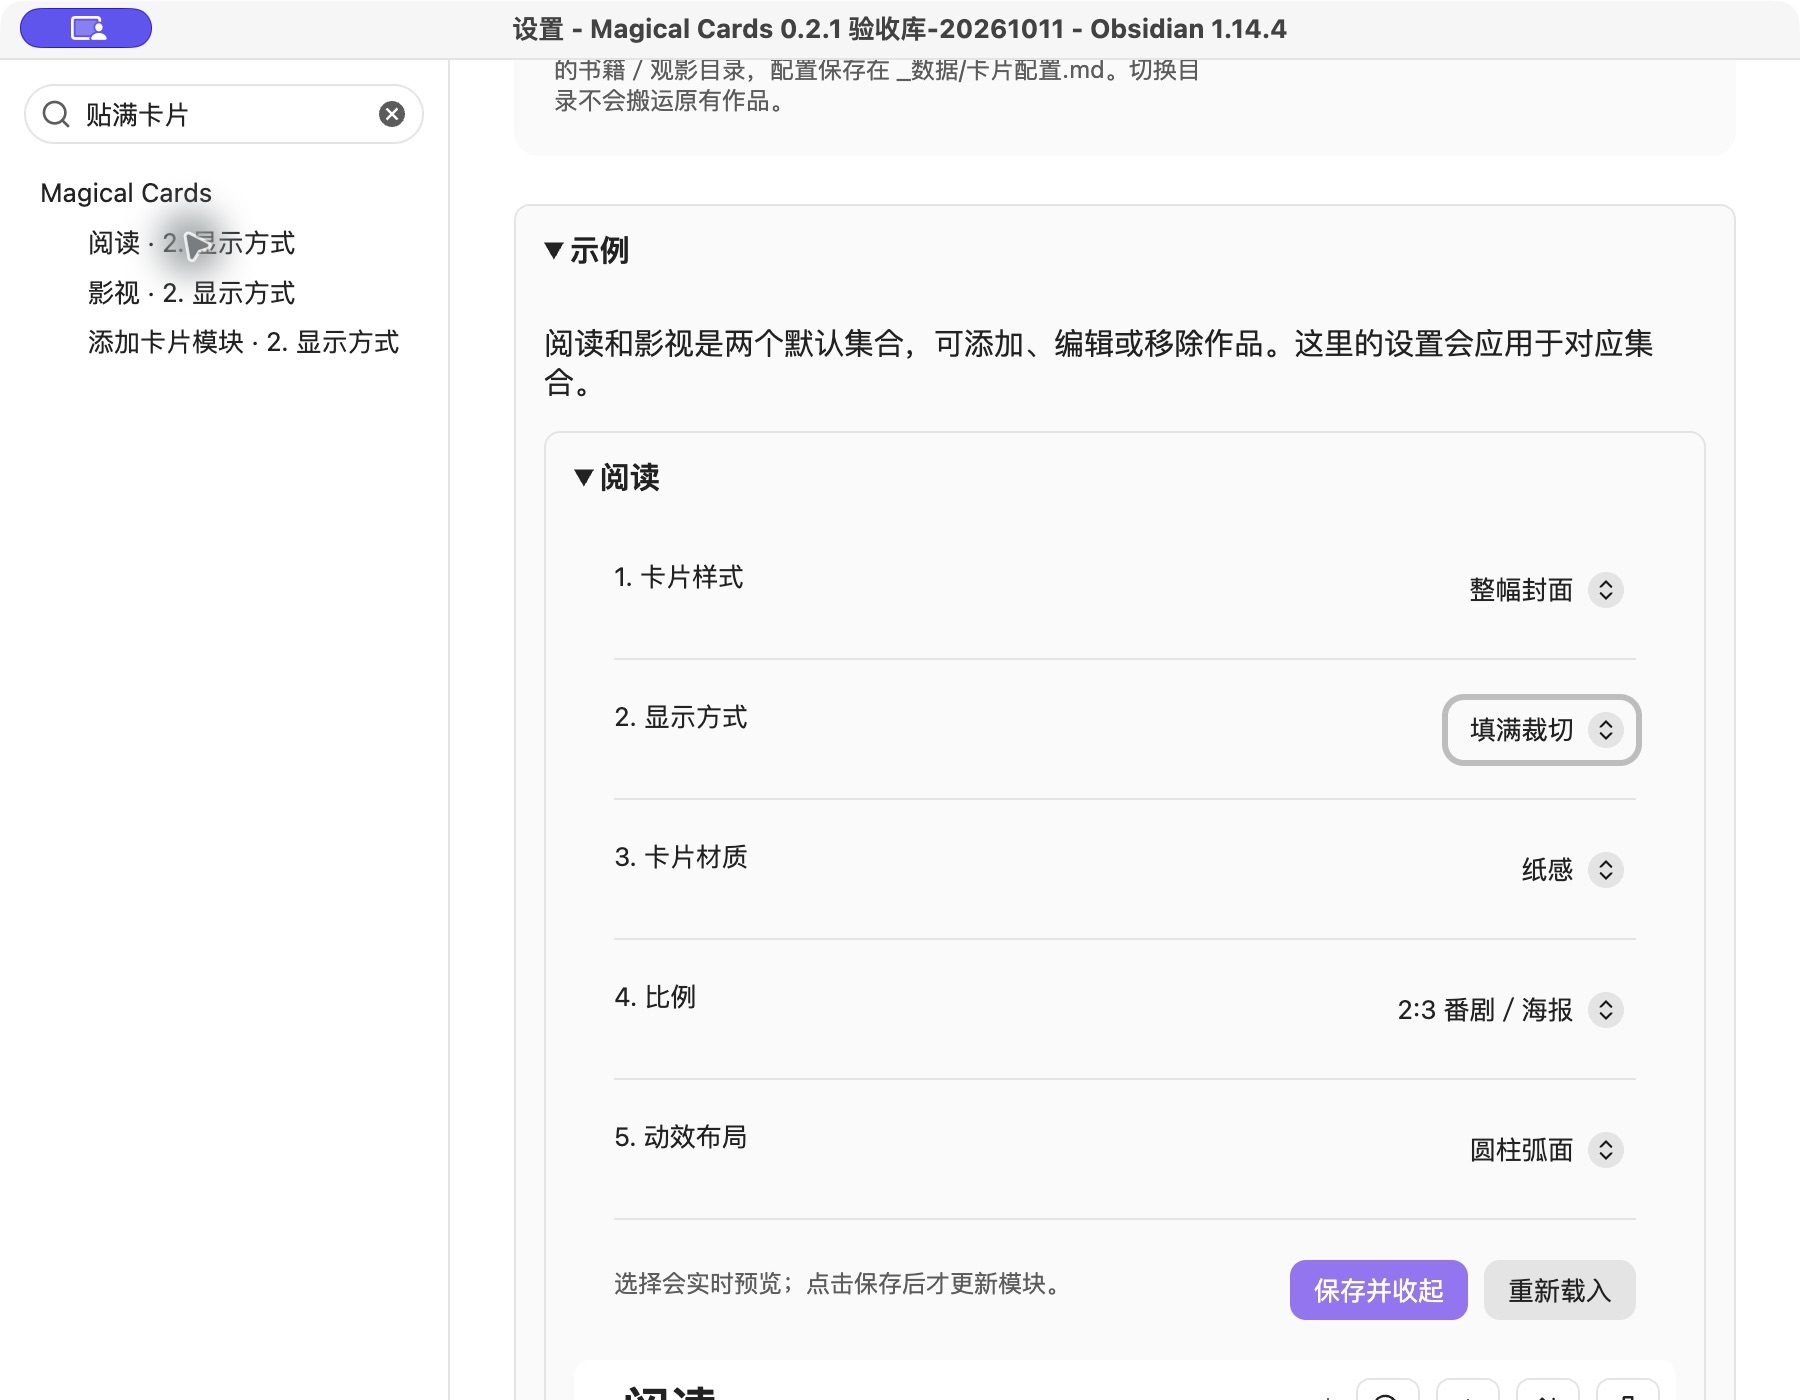
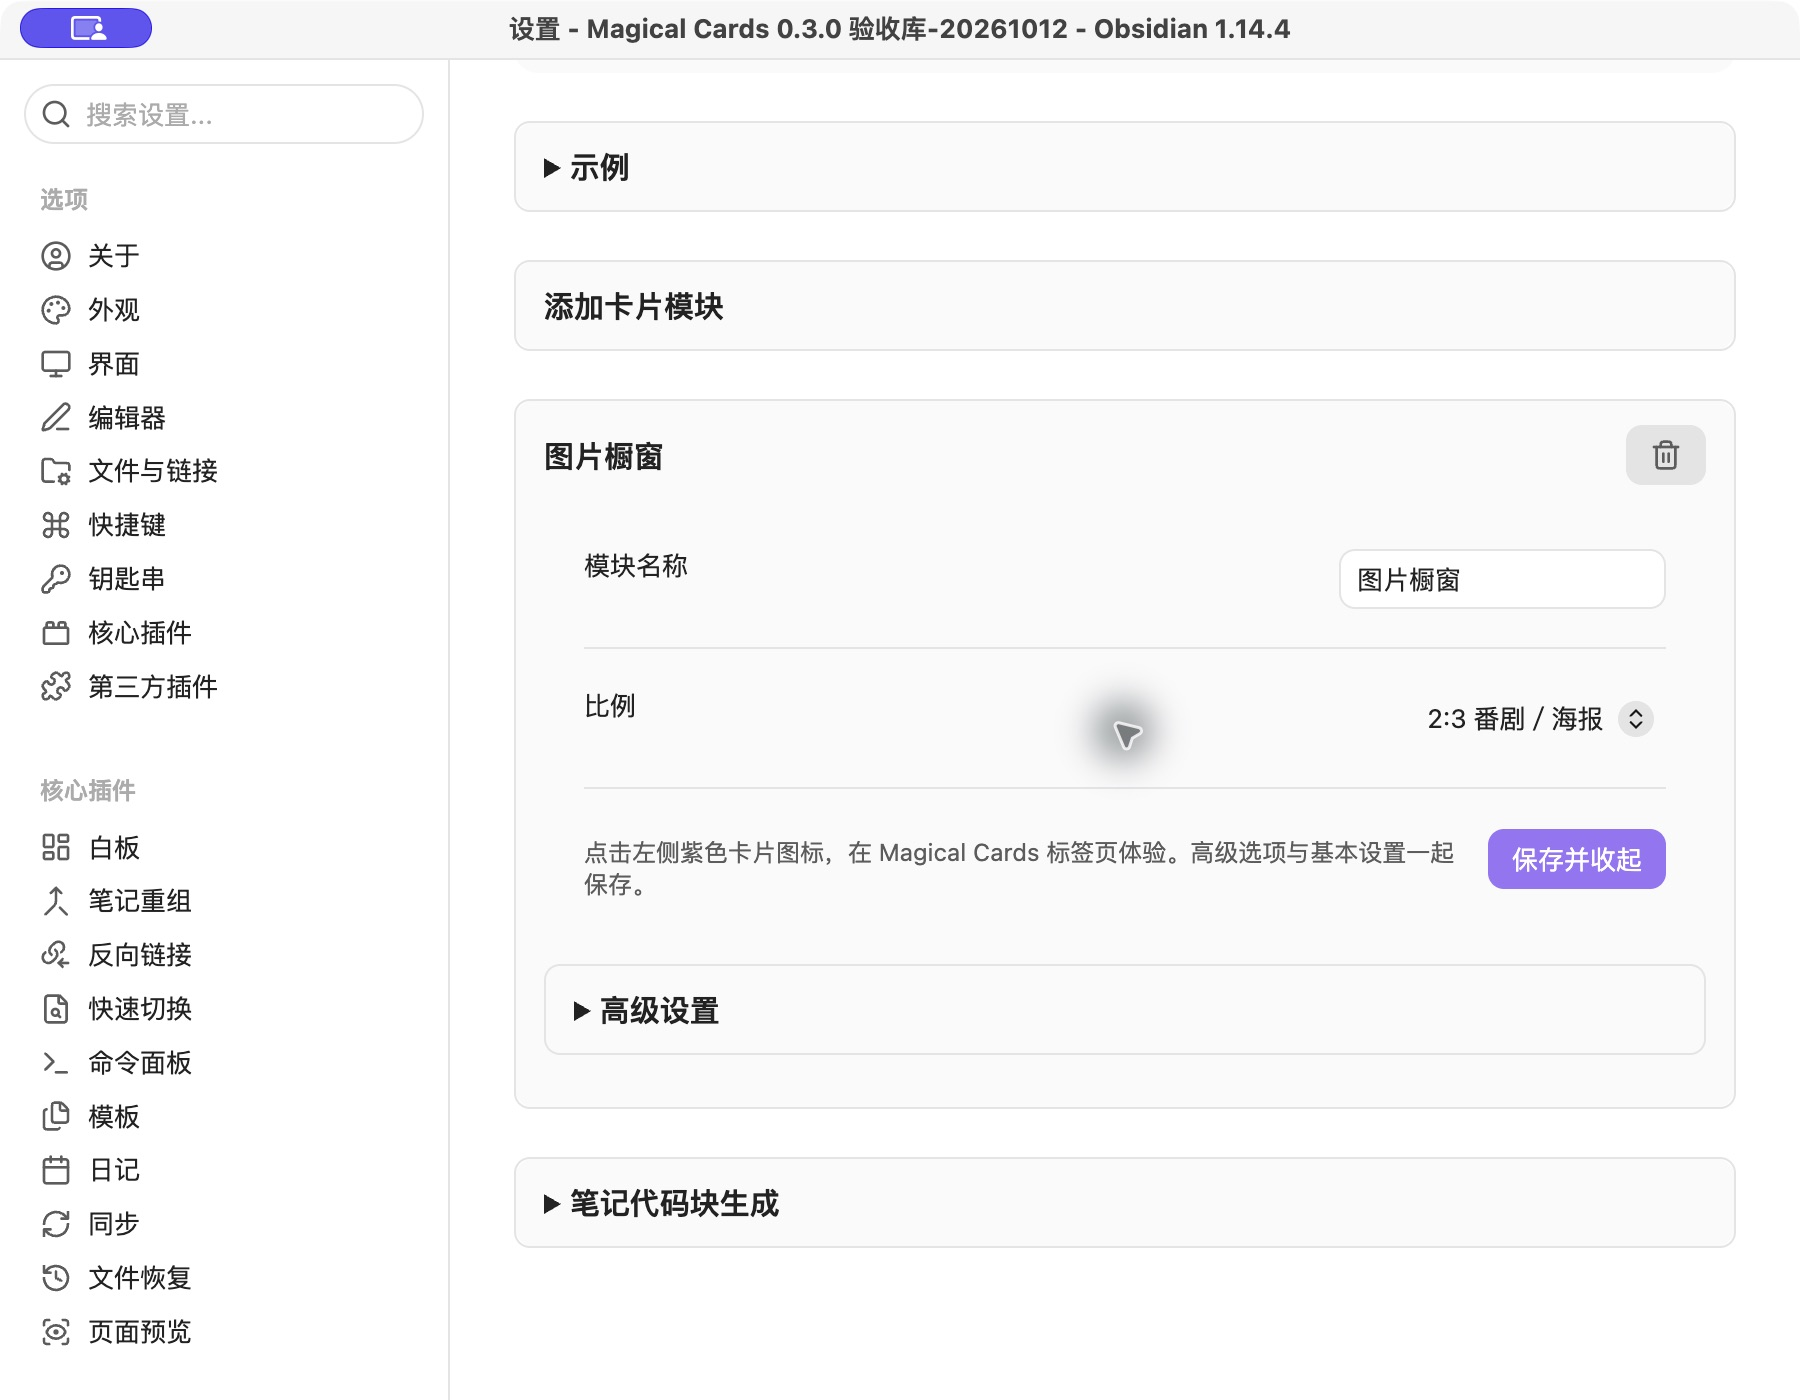
Document native showcase acceptance and settings previews

diff --git a/VERIFICATION.md b/VERIFICATION.md
@@ -1,6 +1,6 @@
 # Magical Cards 0.3.0 candidate verification
 
-Checked on 2026-10-12. This records a release candidate; 0.3.0 has not yet been published. Native acceptance, updated screenshots, deployment and the new community automatic scan are pending because the Mac is locked.
+Checked on 2026-10-12. This records a release candidate; 0.3.0 has not yet been published. Native acceptance and updated settings screenshots are complete. Deployment and the new community automatic scan remain pending.
 
 | Check | Result |
 | --- | --- |
@@ -13,9 +13,15 @@ Checked on 2026-10-12. This records a release candidate; 0.3.0 has not yet been 
 | Script-resource policy | All three renderer script entry points reject execution; version/source mismatch aborts building |
 | Reproducible build | Independent build processes produce identical installation bytes |
 | Clean Git clones | Standalone `1d547cd` on Node 24.19.0 and 26.8.1: all checks and 133 tests pass; host `f49675d` on Node 24.19.0: full workspace CI path and 251 tests pass; all three installation files match the candidates |
-| Native Obsidian acceptance and community scan | Pending; no new scan or native pass is claimed |
+| Native Obsidian acceptance and actual process restart | Pass; 22 / 22 on macOS with Obsidian 1.14.4, Magical Cards 0.3.0 and compatible host 0.1.33 |
+| Actual settings search | Manually confirmed; “翻面” finds “图片橱窗 · 允许翻面” |
+| Deployment and new community scan | Pending; no 0.3.0 release or new scan is claimed |
 
 Clean clone evidence: [verification/clean-0.3.0.json](verification/clean-0.3.0.json). Candidate file hashes: [verification/candidate-0.3.0.json](verification/candidate-0.3.0.json).
+
+Native acceptance covers the five layouts, image import retries, shared Markdown rendering, retained fields and surrounding text, settings save-failure drafts, IME save guards, name and flip controls, module restoration, both plugin loading orders, reading/Live Preview for both block languages, popout cleanup and open-view restoration. An actual application quit and new process launch preceded the final cold check at 2026-10-12T06:06:35.083Z; module settings, note bytes and image hashes remained unchanged. Sanitized results and the six bundled-cover hashes are recorded in [verification/native-0.3.0.json](verification/native-0.3.0.json).
+
+The native WebGL loss/restoration case dispatches synthetic context events. It verifies the handlers and fallback lifecycle, without establishing a physical GPU failure. Bundled local covers are verified without remote image dependencies; system-level disconnected-network testing is not claimed. The native helper and acceptance-vault records are excluded from the public plugin.
 
 New regression coverage includes native-readable showcase notes, image import identity and partial retries, safe SVGs, target-field merging, literal description newlines and repeated saves, damaged and duplicate markers, native unsaved-editor protection, retained names/descriptions and interrupted IME input, shared import/sort retries across view remounts, per-module appearance and three-card limits, read-only settings previews, hidden-module restoration, and real 0.2.1 final-release closures preserving showcase recovery drafts.
 

diff --git a/README_en.md b/README_en.md
@@ -81,7 +81,11 @@ Settings are ordered as **Card directory → Examples → Add cards module → E
 
 Enter a **module name**, choose its **aspect ratio**, then click **保存** (Save). Click the purple stacked-card ribbon icon to experience the module in the **Magical Cards** tab. Settings previews support browsing and sliding only; they cannot flip or start editing sessions.
 
+![Basic module settings with name, aspect ratio, save controls and collapsed advanced settings](previews/settings.png)
+
 **高级设置** (Advanced settings) contains **card style → image fit → material → layout → three-card limit**. Direction appears only for the curved gallery. New modules default to **full cover, fill and crop, paper, 2:3, skewed carousel, three-card limit off**. Reading/film examples and existing modules keep their appearance. The three-card option is per module and does not remove any images.
+
+![Showcase advanced settings with layout, three-card limit, flipping, name position and a read-only preview](previews/settings-advanced.png)
 
 The trash icon beside an expanded module's heading removes its **display only**, preserving its configuration, order, notes and images. Expand **已移除模块** (Removed modules) to restore it. Failed saves and source conflicts retain your draft for retry or explicit reload.
 
@@ -90,6 +94,10 @@ Enter a directory relative to the current vault, such as `卡片库`. Work notes
 ### Image showcases
 
 While creating a module, expand **Advanced settings → Card style** and select **橱窗式卡片** (Showcase cards). Its storage type becomes fixed after saving; existing work modules cannot be converted.
+
+| Image front | Description on the back |
+| --- | --- |
+| ![An image-only showcase front with an optional empty name](previews/showcase-front.png) | ![The showcase back provides a plain-text description editor and a shared-note control](previews/showcase-back.png) |
 
 - Select multiple images or drag images into the showcase. Folders are never scanned automatically. PNG, JPEG, WebP, GIF and SVG are supported, up to 10 MB per image.
 - Each showcase has its own folder containing one `橱窗.md` note and all imported images. The note uses local embeds to show every image, optional name and description. Names may be empty.

diff --git a/README.md b/README.md
@@ -84,7 +84,11 @@ On first use in an empty card directory, the plugin creates six offline examples
 
 新建模块时只需填写**模块名称**、选择**比例**，然后点击**保存**。保存后点击左侧紫色叠卡图标，在 **Magical Cards** 标签页体验。设置中的预览仅能浏览和滑动，不会翻面或打开描述编辑。
 
+![模块基本设置：名称、比例与保存，高级选项默认收起](previews/settings.png)
+
 “高级设置”依次包含：**卡片样式 → 显示方式 → 卡片材质 → 动效布局 → 仅显示三张卡片**。弯曲画廊才显示方向。新模块预设为 **整幅封面、填满裁切、纸感、2:3、倾斜轮播、关闭仅三张**；阅读／影视示例和已有模块保留原外观。三卡选项分别作用于各模块，仍可浏览全部图片。
+
+![橱窗高级设置：布局、三卡、翻面、名称位置及只读预览](previews/settings-advanced.png)
 
 模块展开后，标题右侧的垃圾桶**只移除展示**，保留配置、顺序、笔记和图片。展开“已移除模块”可恢复。保存失败或来源冲突时保留草稿，检查后重试或重新载入。
 
@@ -93,6 +97,10 @@ On first use in an empty card directory, the plugin creates six offline examples
 ### 图片橱窗
 
 橱窗适合只展示图片的收藏。在**新建模块 → 高级设置 → 卡片样式**中选择“橱窗式卡片”，保存后存储方式固定；已有作品模块不转换为橱窗。
+
+| 图片正面 | 翻面描述 |
+| --- | --- |
+| ![橱窗正面仅显示图片，名称可留空](previews/showcase-front.png) | ![橱窗背面提供纯文本描述编辑和模块笔记入口](previews/showcase-back.png) |
 
 - 点击橱窗的添加图片按钮批量选择图片，也可拖入图片。不会自动扫描文件夹；支持 PNG、JPEG、WebP、GIF、SVG，每张最大 10 MB。
 - 每个橱窗独用一个文件夹与一篇 `橱窗.md`，导入图片复制到该文件夹。打开笔记即可看到全部图片、可选名称与描述。图片名称可以留空。
